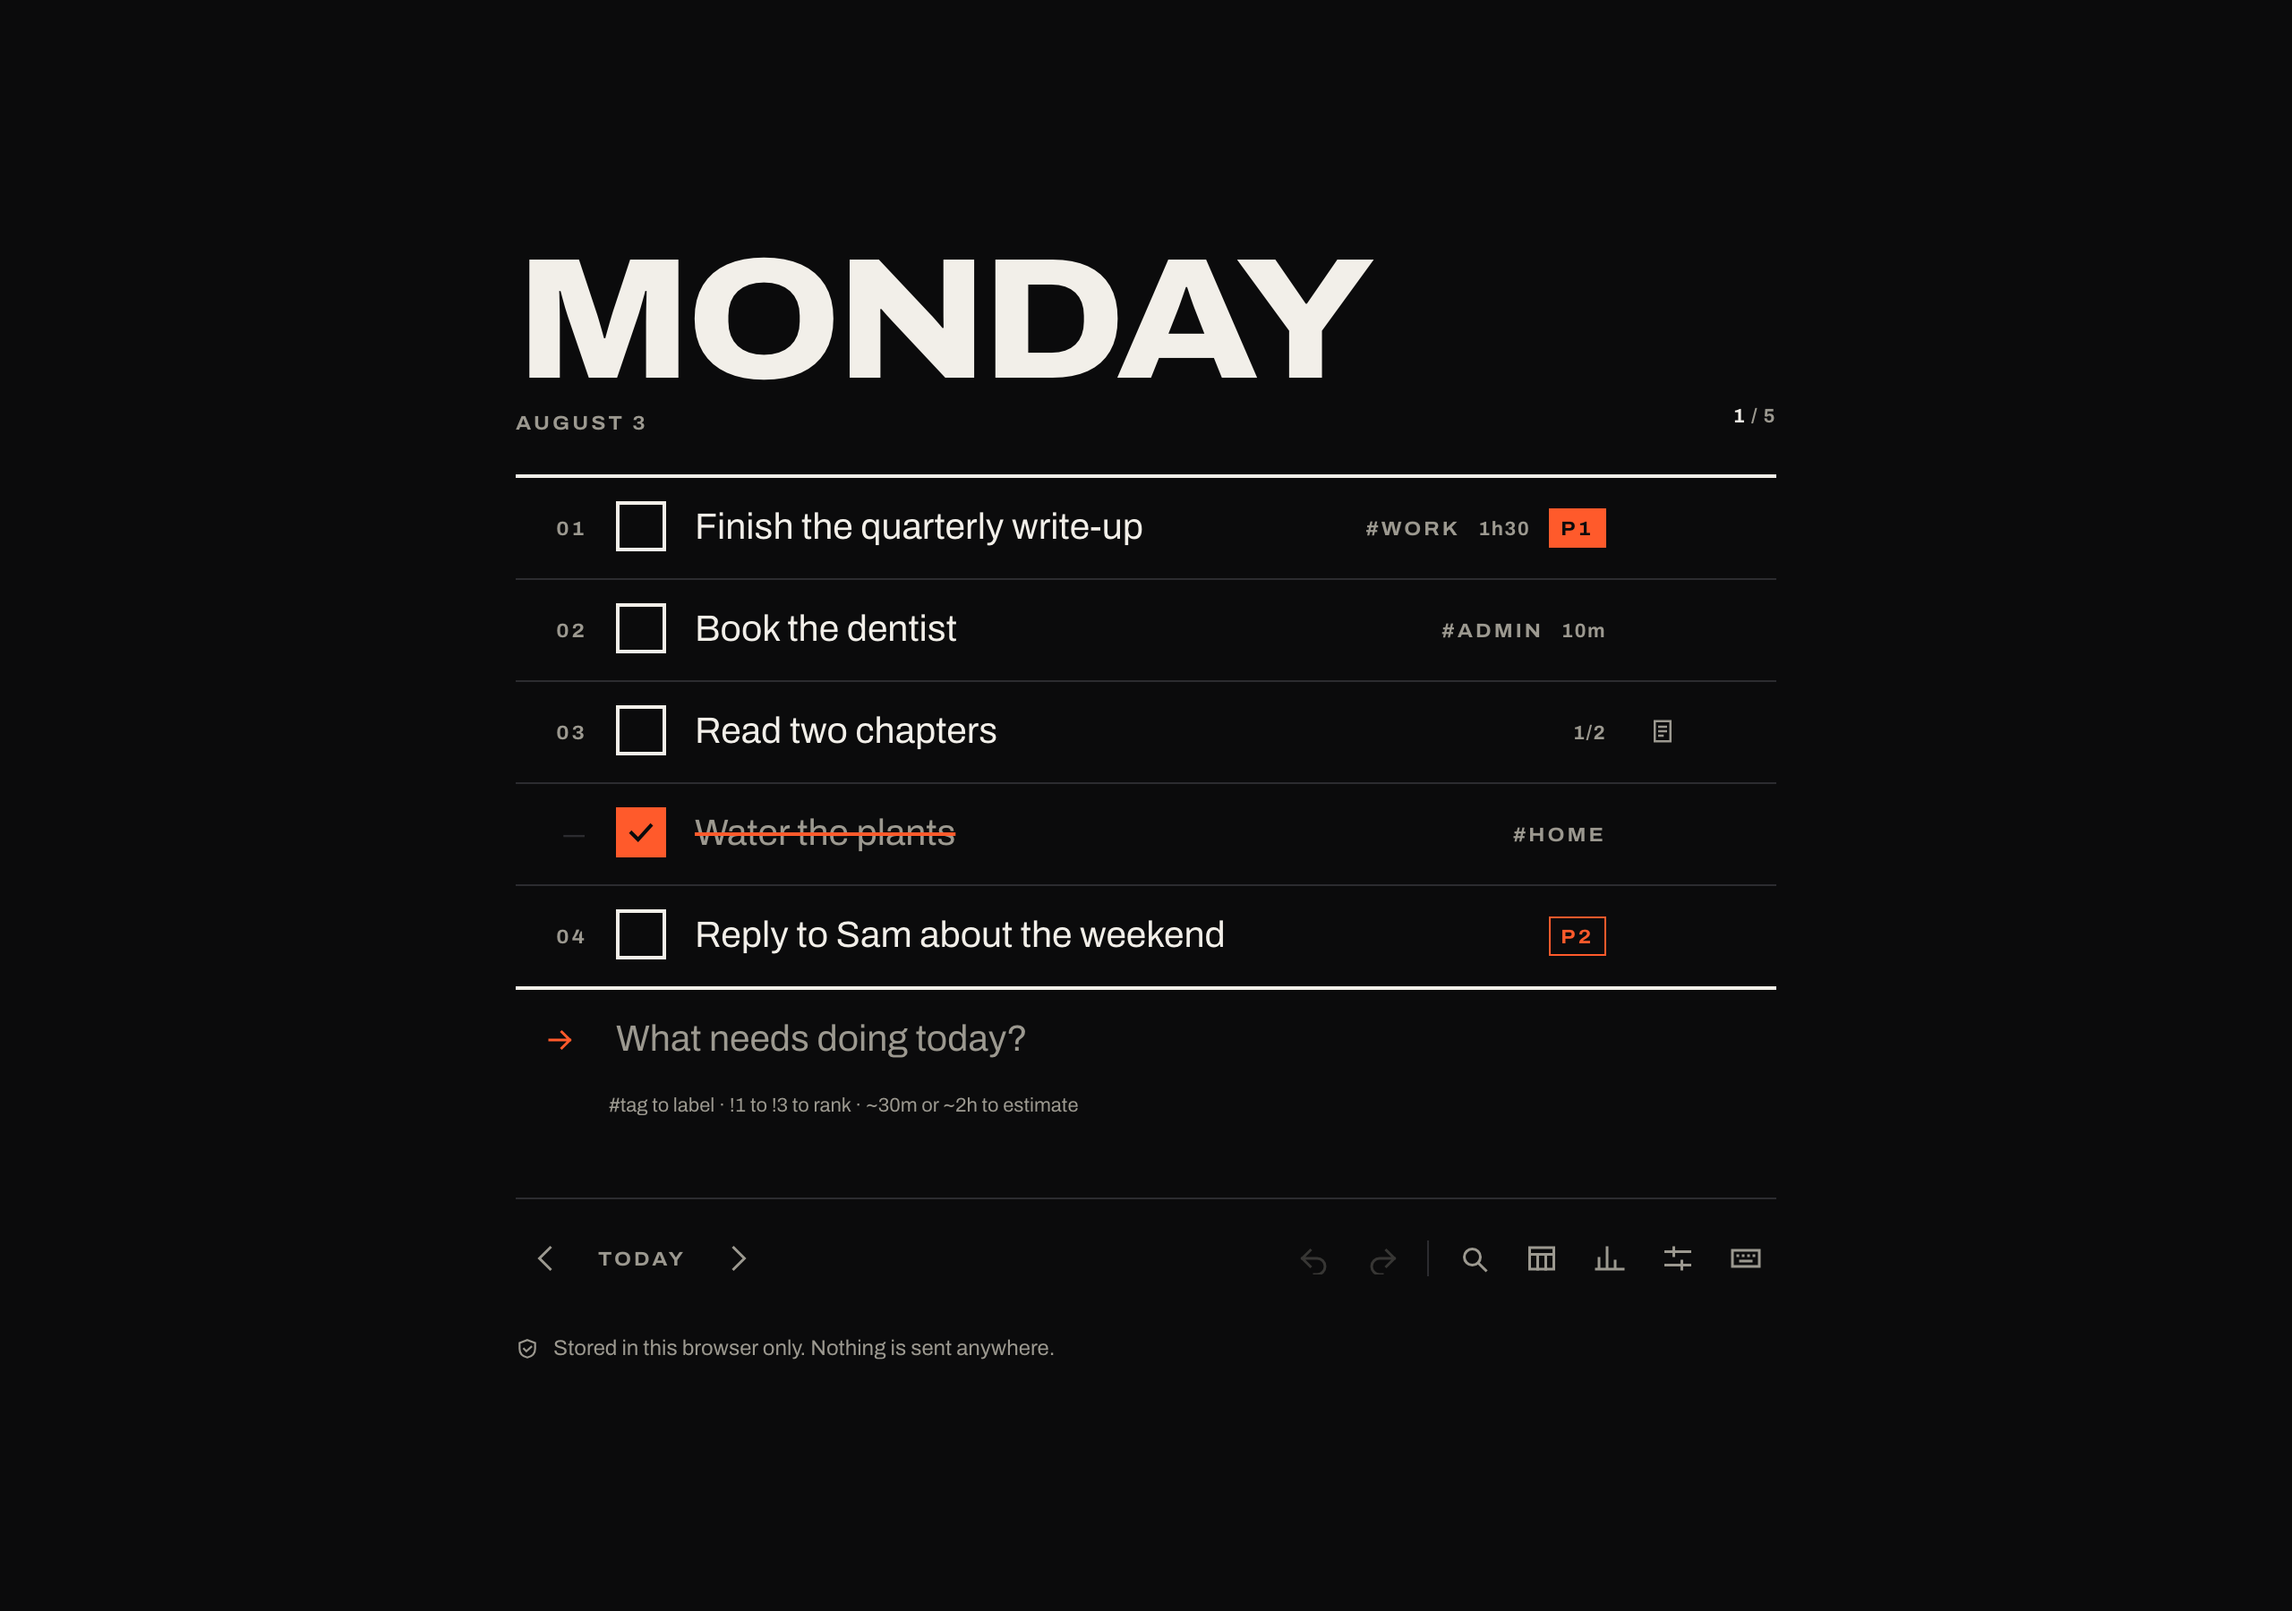
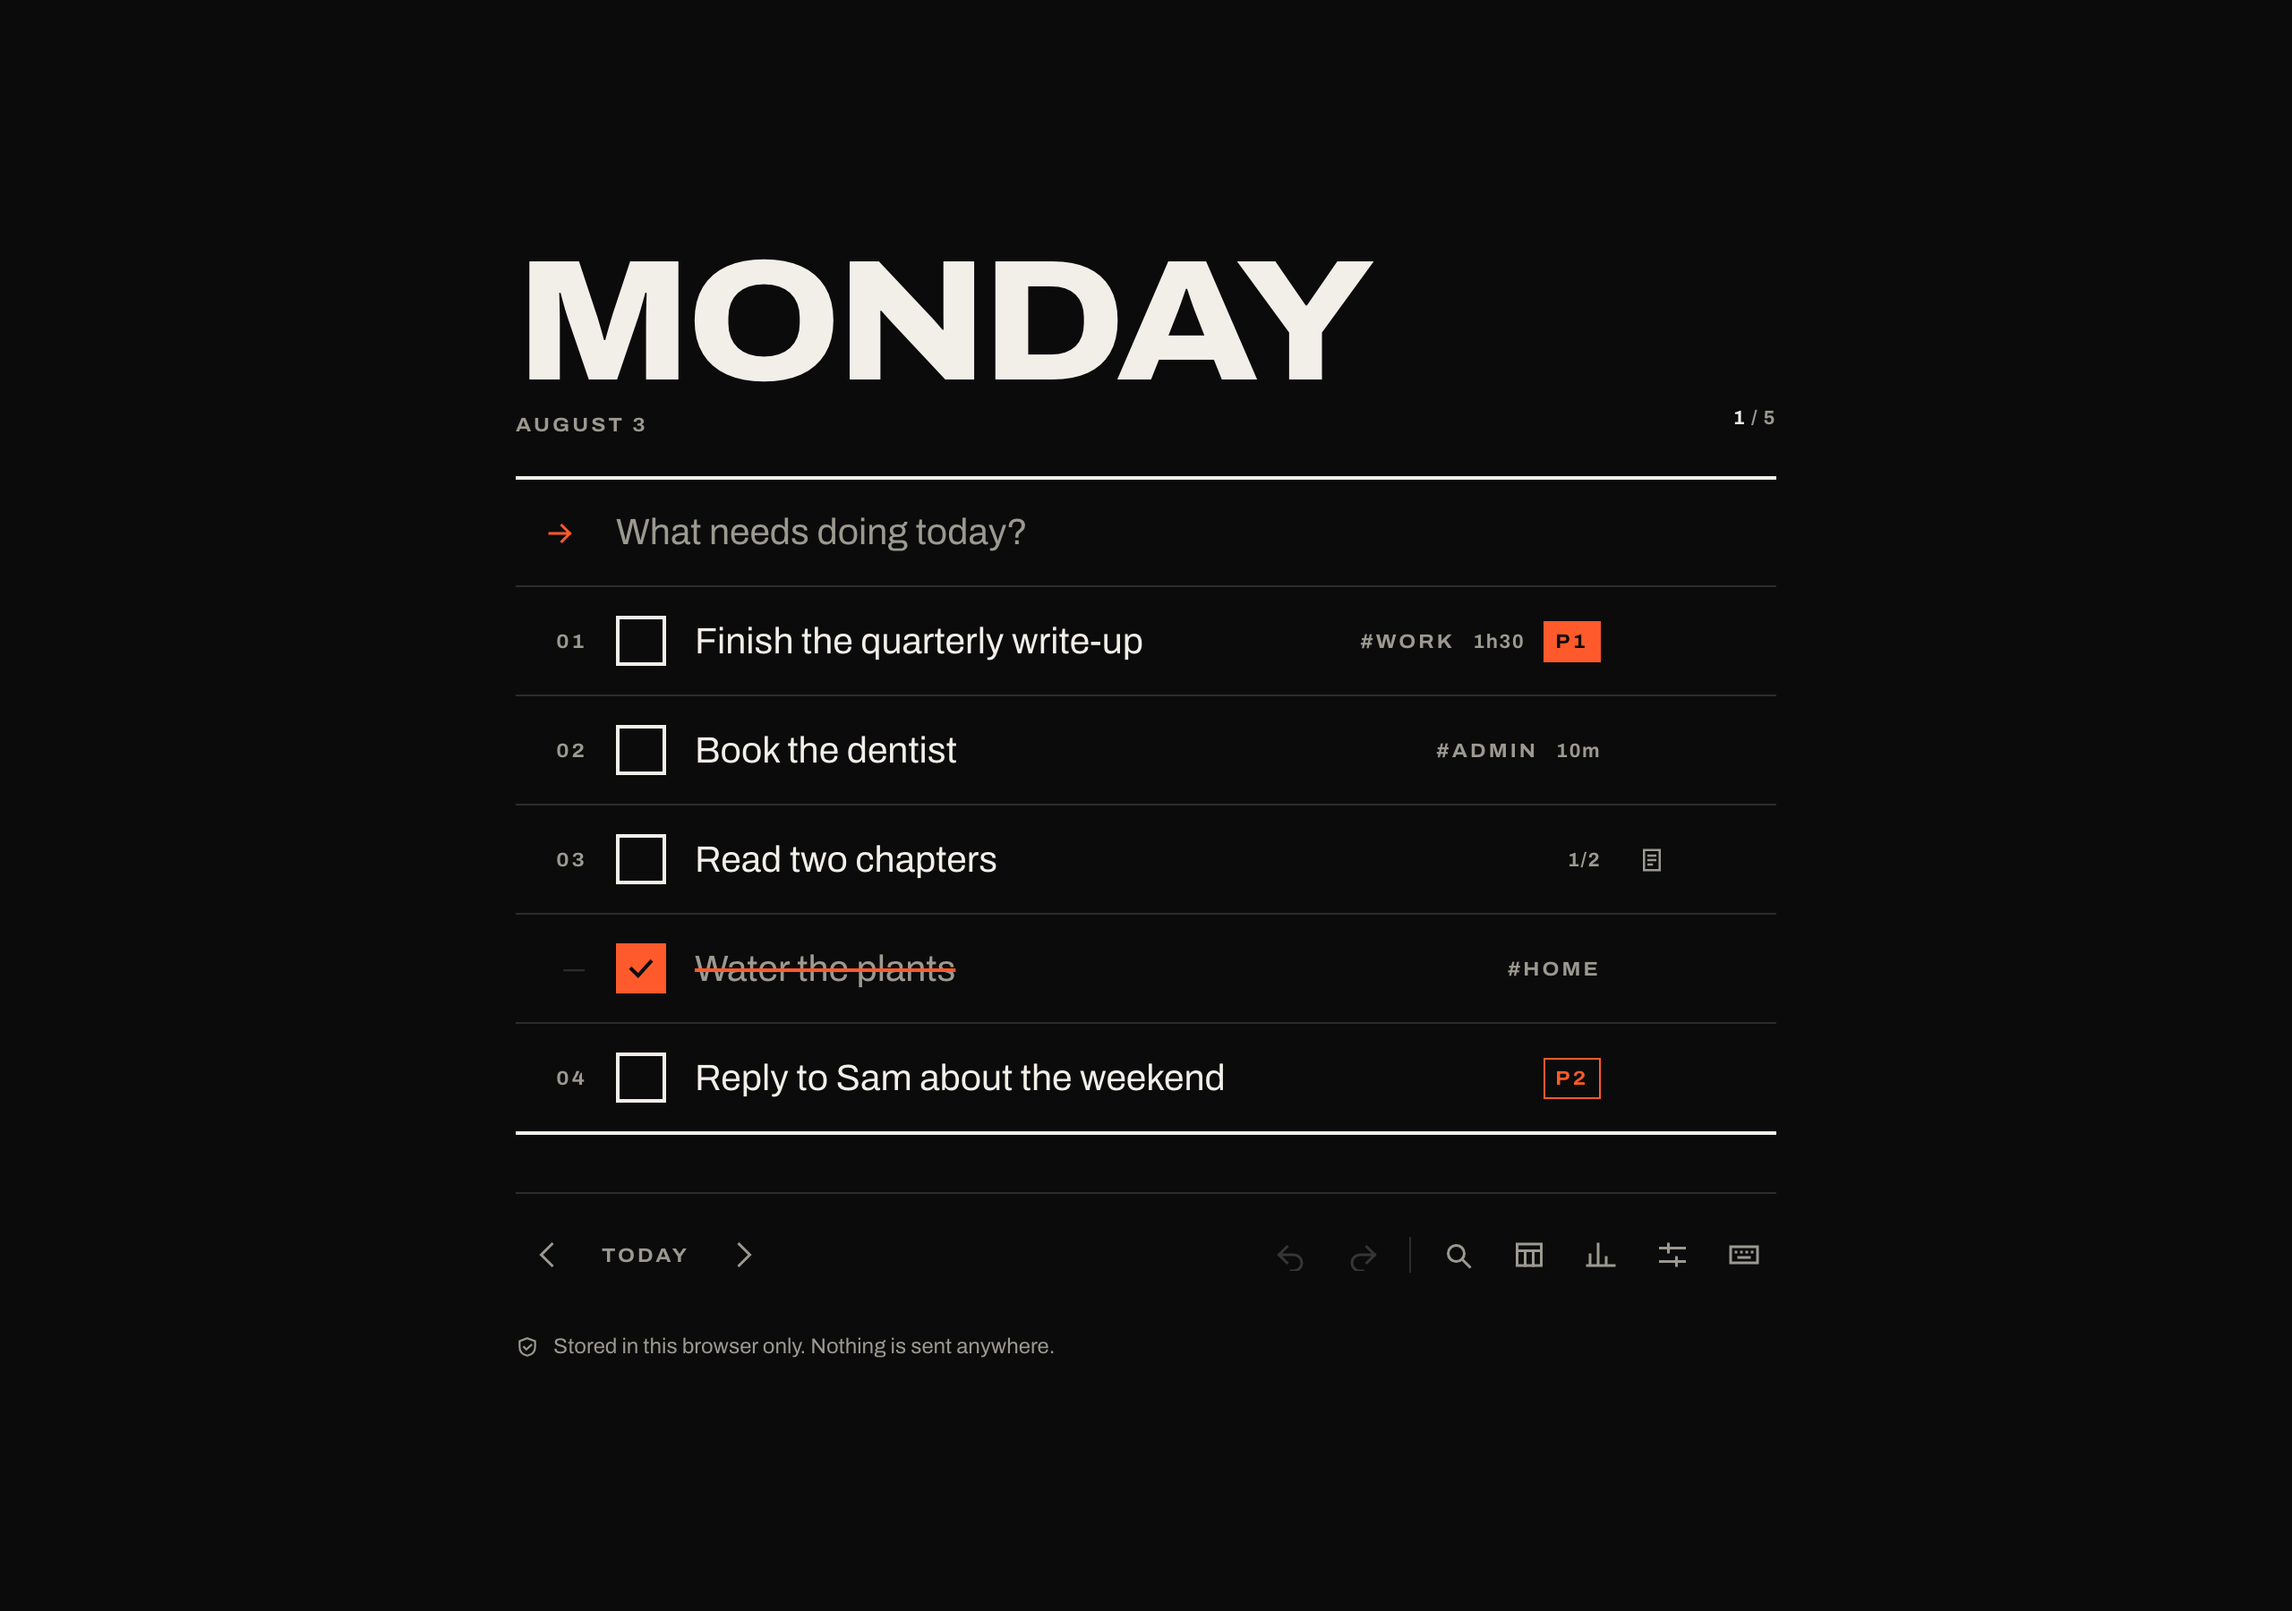
Move capture to the top of the board and rework the row for touch
The capture field now opens the board, under the date: on a screen whose
subject is one day, the first thing you meet should be the way to say
what that day is.

The syntax line under the input is gone from the screen and lives at the
foot of the board as an aria-describedby hint — announced on focus,
invisible otherwise. Sighted users already learn it from the live marker
echo and the first-run state.

Touch fixes: the drag handle and detail toggle were gated on :hover, so a
phone had no way to reorder a day at all. Metadata and controls now share
a second line on small screens, leaving the title its full width, and hit
areas are 44px below sm.

diff --git a/src/features/today/Capture.tsx b/src/features/today/Capture.tsx
@@ -4,20 +4,28 @@ import { parseInput } from '../../domain/parse'
 import { Icon } from '../../ui/Icon'
 import { PriorityMark } from './TaskMeta'
 import { formatEstimate } from './format'
+import { CAPTURE_HINT_ID } from './hint'
 
 export type CaptureHandle = { focus: () => void }
 
 /**
  * Writing down the next thing.
  *
- * The field sits at the foot of the board, where the next row would go, so
- * adding a task reads as extending the list rather than filing something into
- * it. It keeps focus after Enter: a morning is usually three or four lines
- * typed in one go, and reaching for the mouse between them would be the
- * friction that sends people back to a text file.
+ * The field opens the board, directly under the date: on a screen whose whole
+ * subject is one day, the first thing you meet should be the way to say what
+ * that day is. New tasks still land at the end of the list, because a morning
+ * is typed in the order you intend to work — prepending would reverse it.
  *
- * As markers are typed they are echoed live beside the field, which is how the
- * syntax gets learned — no help page, no tour, just the result appearing.
+ * It keeps focus after Enter: three or four lines usually go in at once, and
+ * reaching for the mouse between them is the friction that sends people back to
+ * a text file.
+ *
+ * The syntax is taught in three places, none of which is a permanent line of
+ * instructions under the input: markers echo live beside the field as you type
+ * them, the first-run state spells them out, and `?` lists them. What remains
+ * here is an `aria-describedby` hint, read aloud on focus and invisible on
+ * screen — the people who cannot see the echo are exactly the ones who need
+ * the syntax stated.
  */
 export function Capture({ day, ref }: { day: string; ref?: Ref<CaptureHandle> }) {
   const dispatch = useDispatch()
@@ -41,9 +49,9 @@ export function Capture({ day, ref }: { day: string; ref?: Ref<CaptureHandle> })
         event.preventDefault()
         submit()
       }}
-      className="border-t-2 border-rule-strong"
+      className="border-b border-rule"
     >
-      <div className="flex items-center gap-3 px-3 py-3.5 sm:gap-4 sm:px-4">
+      <div className="flex items-center gap-3 px-3 py-4 sm:gap-4 sm:px-4">
         <span aria-hidden="true" className="w-6 shrink-0 text-right text-accent">
           <Icon name="arrowRight" size={18} />
         </span>
@@ -60,8 +68,10 @@ export function Capture({ day, ref }: { day: string; ref?: Ref<CaptureHandle> })
           }}
           placeholder="What needs doing today?"
           aria-label="Add a task"
+          aria-describedby={CAPTURE_HINT_ID}
           enterKeyHint="done"
           autoComplete="off"
+          autoCapitalize="sentences"
           spellCheck={false}
           className="min-w-0 flex-1 text-row placeholder:text-ink-muted"
         />
@@ -82,12 +92,6 @@ export function Capture({ day, ref }: { day: string; ref?: Ref<CaptureHandle> })
           </div>
         )}
       </div>
-
-      <p className="px-3 pb-3 text-[0.6875rem] text-ink-muted sm:px-4 sm:pl-[3.25rem]">
-        <span className="tabular">#tag</span> to label · <span className="tabular">!1</span> to{' '}
-        <span className="tabular">!3</span> to rank · <span className="tabular">~30m</span> or{' '}
-        <span className="tabular">~2h</span> to estimate
-      </p>
     </form>
   )
 }

diff --git a/src/features/today/TaskRow.tsx b/src/features/today/TaskRow.tsx
@@ -159,31 +159,44 @@ export function TaskRow({
             </button>
           )}
 
-          {!editing && <TaskMeta task={task} today={today} />}
-        </div>
+          {/* Metadata and the row's controls travel together. On a phone that
+              whole group drops to a second line and hugs the right edge, so the
+              title keeps the full width; on desktop the same group is simply
+              the right-hand end of a single row. One markup, two shapes, and no
+              duplicated tab stops.
 
-        <div className="flex shrink-0 items-center">
-          <IconButton
-            icon={open ? 'minus' : 'note'}
-            size={15}
-            label={open ? `Hide details of ${task.title}` : `Show details of ${task.title}`}
-            aria-expanded={open}
-            onClick={() => setOpen((value) => !value)}
-            className={
-              open || task.subtasks.length > 0 || task.notes !== ''
-                ? ''
-                : 'opacity-0 transition-opacity group-hover:opacity-100 focus-visible:opacity-100'
-            }
-          />
-          <button
-            type="button"
-            {...attributes}
-            {...listeners}
-            aria-label={`Reorder ${task.title}`}
-            className="cursor-grab p-2 text-rule opacity-0 transition-opacity group-hover:opacity-100 focus-visible:opacity-100 active:cursor-grabbing"
-          >
-            <Icon name="grip" size={16} />
-          </button>
+              Reveal-on-hover is a desktop affordance and nothing else: a touch
+              device never hovers, so gating the controls on it would leave a
+              phone with no way to reorder a day at all. */}
+          {!editing && (
+            <div className="flex shrink-0 items-center gap-2.5">
+              <TaskMeta task={task} today={today} />
+
+              <div className="ml-auto flex items-center">
+                <IconButton
+                  icon={open ? 'minus' : 'note'}
+                  size={15}
+                  label={open ? `Hide details of ${task.title}` : `Show details of ${task.title}`}
+                  aria-expanded={open}
+                  onClick={() => setOpen((value) => !value)}
+                  className={
+                    open || task.subtasks.length > 0 || task.notes !== ''
+                      ? ''
+                      : 'sm:opacity-0 sm:transition-opacity sm:group-hover:opacity-100 sm:focus-visible:opacity-100'
+                  }
+                />
+                <button
+                  type="button"
+                  {...attributes}
+                  {...listeners}
+                  aria-label={`Reorder ${task.title}`}
+                  className="flex size-11 cursor-grab touch-none items-center justify-center text-ink-muted active:cursor-grabbing sm:size-9 sm:text-rule sm:opacity-0 sm:transition-opacity sm:group-hover:opacity-100 sm:focus-visible:opacity-100"
+                >
+                  <Icon name="grip" size={16} />
+                </button>
+              </div>
+            </div>
+          )}
         </div>
       </div>
 

diff --git a/src/features/today/TodayView.tsx b/src/features/today/TodayView.tsx
@@ -20,6 +20,7 @@ import { dayProgress, matchesFilters, tasksForDay, type Filters } from '../../do
 import { DayHeader } from './DayHeader'
 import { TaskRow } from './TaskRow'
 import { Capture, type CaptureHandle } from './Capture'
+import { CAPTURE_HINT_ID } from './hint'
 import { DayCleared, EmptyDay, FirstRun } from './EmptyStates'
 
 /**
@@ -91,7 +92,11 @@ export function TodayView({
     <section aria-label={`Tasks for ${day}`}>
       <DayHeader day={day} progress={progress} />
 
-      <div className="border-t-2 border-rule-strong">
+      <div className="border-y-2 border-rule-strong">
+        {/* Capture opens the board: on a screen about one day, the first thing
+            you meet is the way to say what the day is. */}
+        <Capture day={day} ref={captureRef} />
+
         {progress.complete && <DayCleared done={progress.done} />}
 
         {neverWritten && (isFirstRun ? <FirstRun /> : <EmptyDay />)}
@@ -140,9 +145,19 @@ export function TodayView({
             </DragOverlay>
           </DndContext>
         )}
-
-        <Capture day={day} ref={captureRef} />
       </div>
+
+      {/* The syntax lives at the foot of the board and only in the accessibility
+          tree. Sighted users learn it from the live echo beside the field and
+          from the first-run state; a permanent line of instructions under a
+          text input is the kind of chrome that never stops being read once and
+          then ignored forever. `aria-describedby` does not care where this sits,
+          so it is announced on focus wherever it is in the document. */}
+      <p id={CAPTURE_HINT_ID} className="sr-only">
+        Type the task, then press Enter. Optional markers: hash tag to label it, exclamation mark
+        followed by 1, 2 or 3 to set a priority, tilde followed by a duration such as 30m or 2h to
+        estimate it.
+      </p>
 
       <p aria-live="polite" className="sr-only">
         {progress.complete ? `Day cleared. ${progress.done} things done.` : ''}

diff --git a/src/ui/Button.tsx b/src/ui/Button.tsx
@@ -52,6 +52,10 @@ type IconButtonProps = ButtonHTMLAttributes<HTMLButtonElement> & {
   size?: number
 }
 
+/**
+ * `size-11` is 44px, the smallest target a finger hits reliably. Desktop drops
+ * to 36px, where a cursor is precise and the extra padding only costs density.
+ */
 export function IconButton({ icon, label, size = 18, className = '', ...rest }: IconButtonProps) {
   return (
     <button
@@ -59,8 +63,8 @@ export function IconButton({ icon, label, size = 18, className = '', ...rest }: 
       aria-label={label}
       title={label}
       className={
-        'inline-flex items-center justify-center p-2 text-ink-muted transition-colors ' +
-        'duration-150 hover:bg-sunken hover:text-ink disabled:opacity-30 ' +
+        'inline-flex size-11 items-center justify-center text-ink-muted transition-colors ' +
+        'duration-150 hover:bg-sunken hover:text-ink disabled:opacity-30 sm:size-9 ' +
         `disabled:hover:bg-transparent disabled:hover:text-ink-muted ${className}`
       }
       {...rest}

diff --git a/src/features/today/Slat.tsx b/src/features/today/Slat.tsx
@@ -26,6 +26,9 @@ export function Slat({
   size?: 'sm' | 'md'
 }) {
   const box = size === 'sm' ? 'size-5' : 'size-7'
+  // Completion is the most-tapped control in the app; on a phone its hit area
+  // is padded out to 44px without the slat itself growing.
+  const hit = size === 'sm' ? '-m-1.5 p-1.5' : '-m-2 p-2 sm:-m-1 sm:p-1'
 
   return (
     <button
@@ -33,7 +36,7 @@ export function Slat({
       onClick={onToggle}
       aria-pressed={done}
       aria-label={label}
-      className="group -m-1 shrink-0 p-1"
+      className={`group shrink-0 ${hit}`}
       style={{ perspective: '260px' }}
     >
       <span

diff --git a/src/features/today/hint.ts b/src/features/today/hint.ts
@@ -1,0 +1,9 @@
+/**
+ * The id linking the capture field to its syntax hint.
+ *
+ * The hint is rendered at the foot of the board, far from the input it
+ * describes, so the two ends need a name they agree on. There is only ever one
+ * capture field on screen, which is why a constant is honest here and a
+ * generated `useId` would only obscure the connection.
+ */
+export const CAPTURE_HINT_ID = 'capture-syntax'
